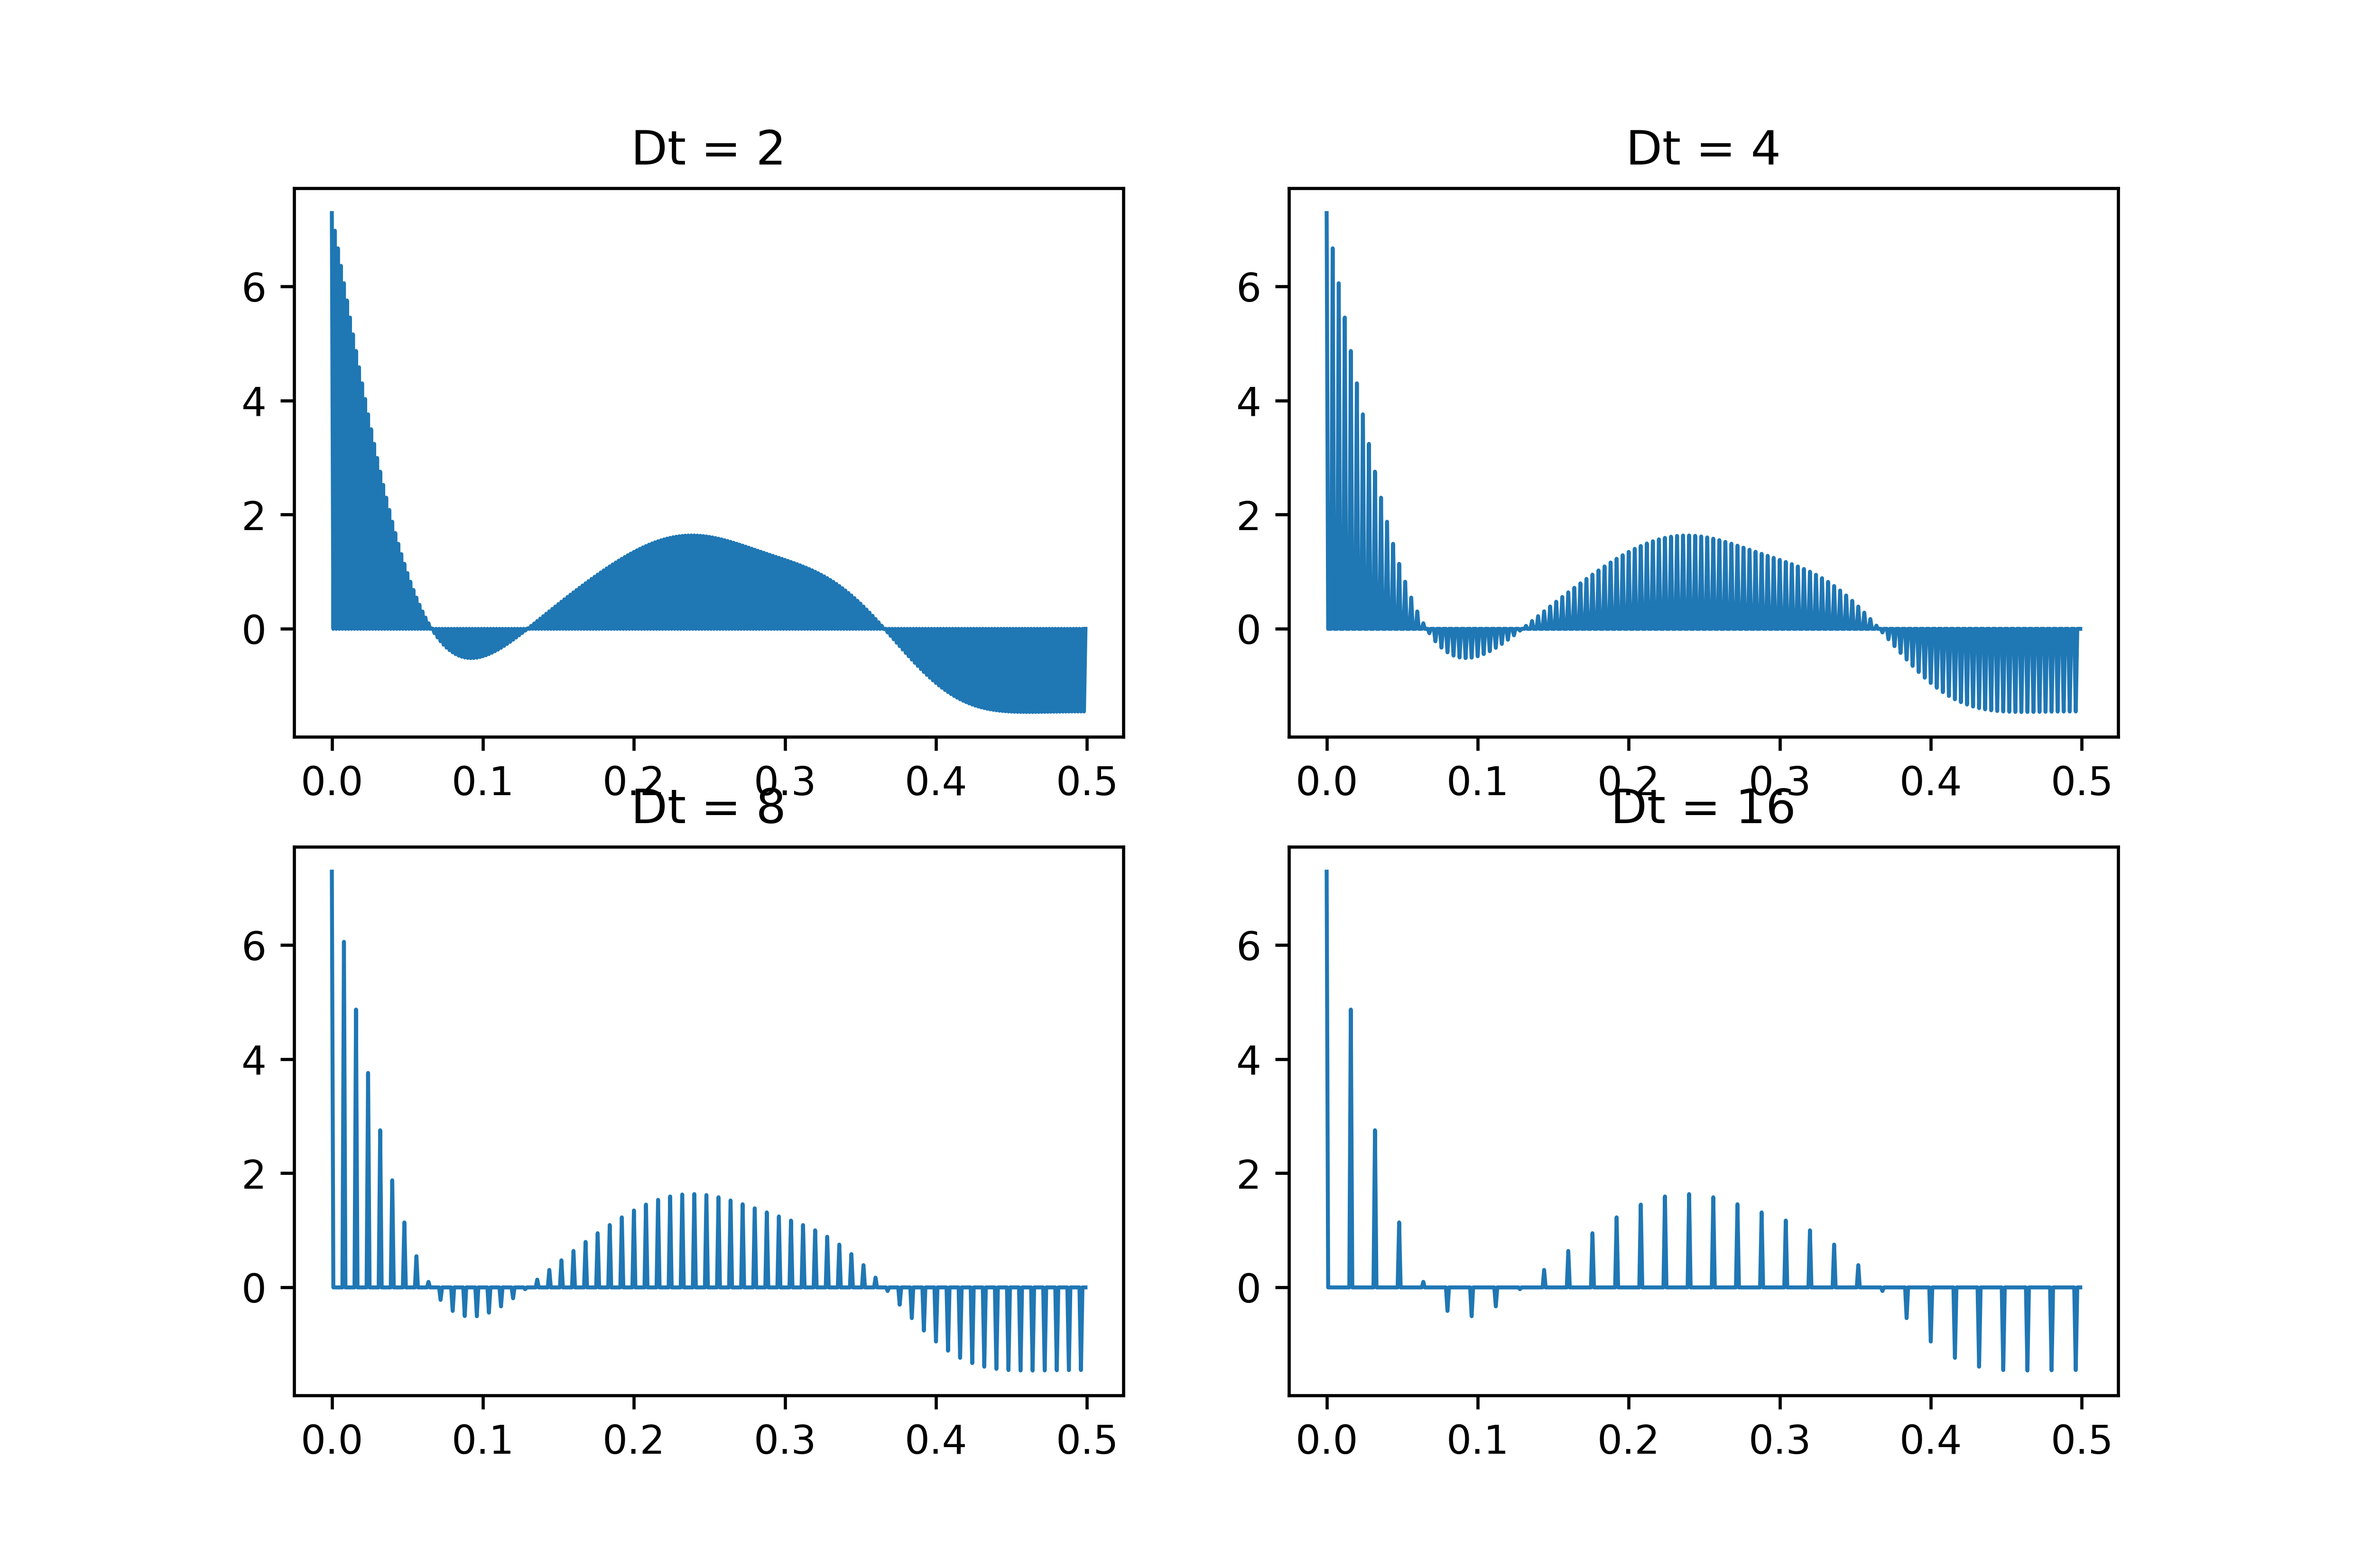
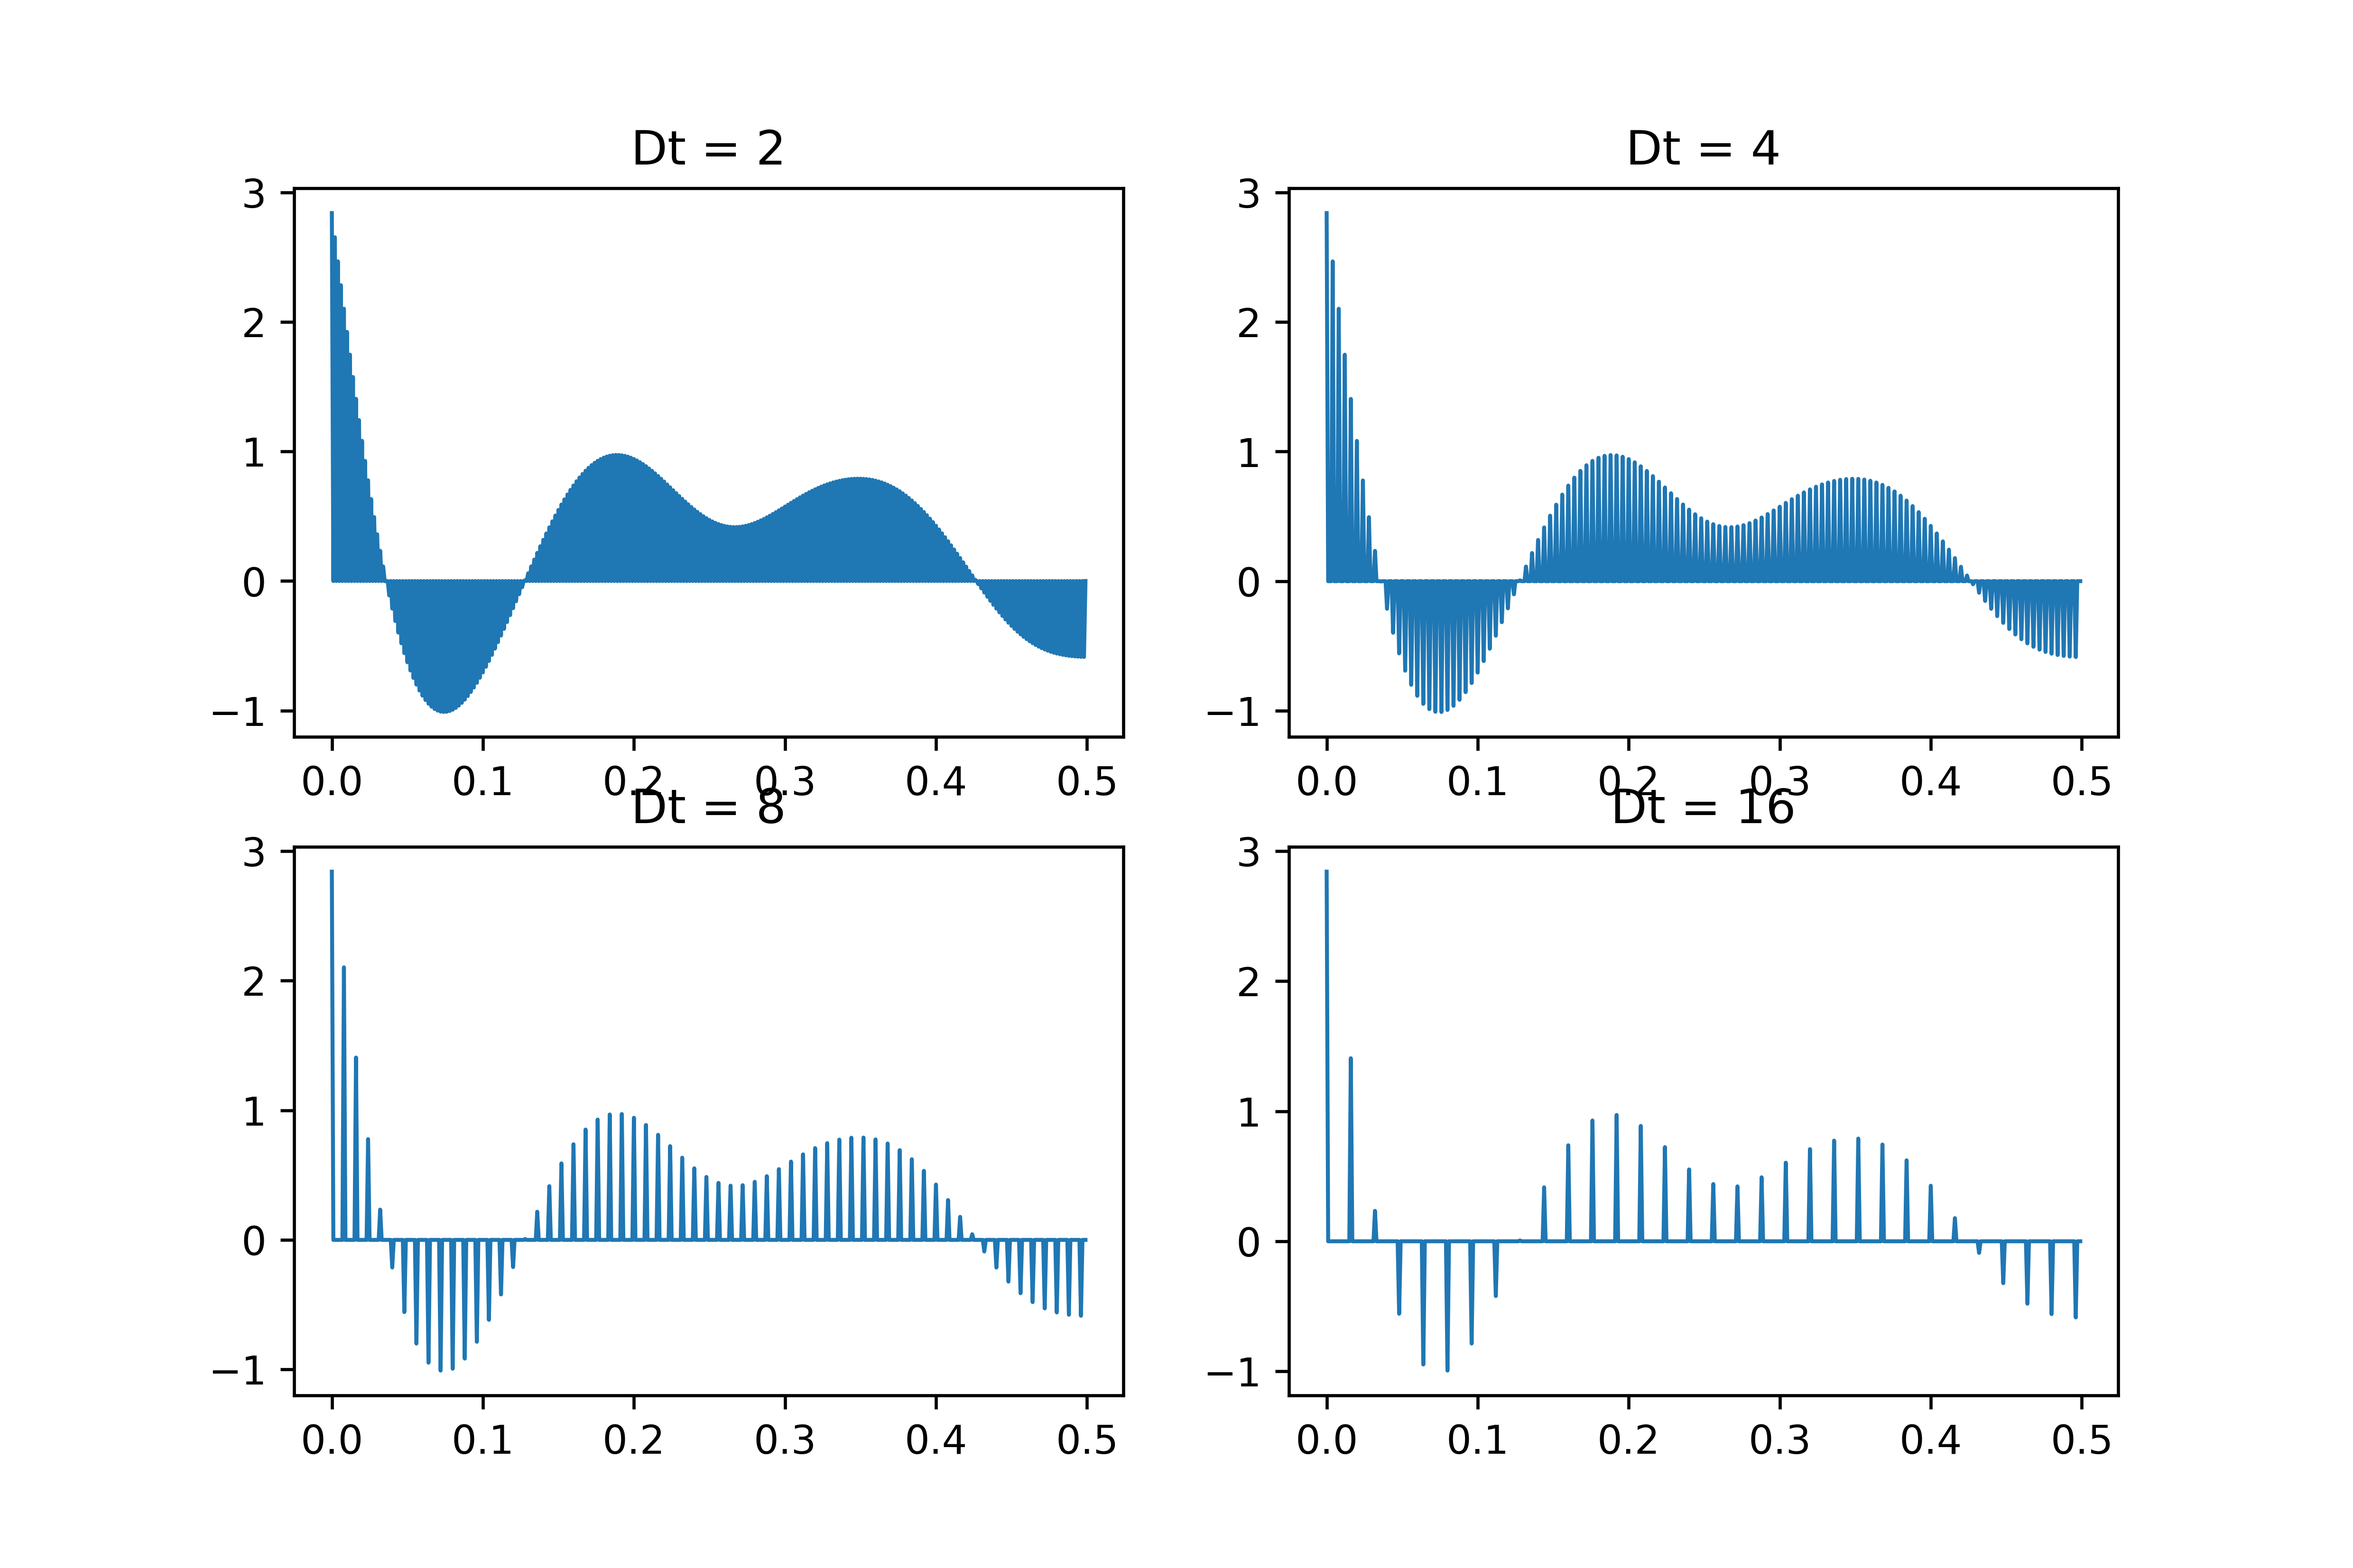
LosslessСompression 1

diff --git a/LosslessСompression/sequence.py b/LosslessСompression/sequence.py
@@ -1,0 +1,196 @@
+import random
+import collections
+import math
+import string
+import matplotlib.pyplot as plt
+
+# Константи
+N_SEQUENCE = 100
+STUDENT_NUMBER = 2  # Порядковий номер
+LAST_NAME = "Вансовіч"
+GROUP_NUMBER = "529"
+
+def generate_sequence_1():
+    """Генерація послідовності 1"""
+    list1 = ['1'] * STUDENT_NUMBER
+    list0 = ['0'] * (N_SEQUENCE - STUDENT_NUMBER)
+    combined = list1 + list0
+    random.shuffle(combined)
+    return ''.join(combined)
+
+def generate_sequence_2():
+    """Генерація послідовності 2"""
+    letters = list(LAST_NAME)
+    zeros = ['0'] * (N_SEQUENCE - len(letters))
+    return ''.join(letters + zeros)
+
+def generate_sequence_3():
+    """Генерація послідовності 3"""
+    letters = list(LAST_NAME)
+    zeros = ['0'] * (N_SEQUENCE - len(letters))
+    combined = letters + zeros
+    random.shuffle(combined)
+    return ''.join(combined)
+
+def generate_sequence_4():
+    """Генерація послідовності 4"""
+    letters = list(LAST_NAME) + list(GROUP_NUMBER)
+    n_letters = len(letters)
+    n_repeats = N_SEQUENCE // n_letters
+    remainder = N_SEQUENCE % n_letters
+
+    sequence = letters * n_repeats + letters[:remainder]
+    return ''.join(sequence)
+
+def generate_sequence_5():
+    """Генерація послідовності 5"""
+    elements = list(LAST_NAME[:2]) + list(GROUP_NUMBER)
+    sequence = random.choices(elements, k=N_SEQUENCE)
+    return ''.join(sequence)
+
+def generate_sequence_6():
+    """Генерація послідовності 6"""
+    letters = list(LAST_NAME[:2])
+    digits = list(GROUP_NUMBER)
+
+    n_letters = int(0.7 * N_SEQUENCE)
+    n_digits = N_SEQUENCE - n_letters
+
+    sequence = random.choices(letters, k=n_letters) + random.choices(digits, k=n_digits)
+    random.shuffle(sequence)
+    return ''.join(sequence)
+
+def generate_sequence_7():
+    """Генерація послідовності 7"""
+    elements = string.ascii_lowercase + string.digits
+    sequence = random.choices(elements, k=N_SEQUENCE)
+    return ''.join(sequence)
+
+def generate_sequence_8():
+    """Генерація послідовності 8"""
+    return '1' * N_SEQUENCE
+
+def calculate_sequence_stats(sequence):
+    """Розрахунок статистики для послідовності"""
+    # Розмір алфавіту
+    unique_chars = set(sequence)
+    alphabet_size = len(unique_chars)
+
+    # Розмір послідовності в байтах
+    sequence_size_bytes = len(sequence)
+
+    # Ймовірності символів
+    counts = collections.Counter(sequence)
+    probability = {symbol: count / N_SEQUENCE for symbol, count in counts.items()}
+
+    # Середня ймовірність
+    mean_probability = sum(probability.values()) / len(probability)
+
+    # Тип розподілу ймовірностей
+    equal = all(abs(prob - mean_probability) < 0.05 * mean_probability for prob in probability.values())
+    uniformity = "рівна" if equal else "нерівна"
+
+    # Ентропія
+    entropy = -sum(p * math.log2(p) for p in probability.values() if p > 0)
+
+    # Надмірність
+    if alphabet_size > 1:
+        source_excess = 1 - entropy / math.log2(alphabet_size)
+    else:
+        source_excess = 1
+
+    return {
+        'sequence': sequence,
+        'alphabet_size': alphabet_size,
+        'size_bytes': sequence_size_bytes,
+        'probability': probability,
+        'mean_probability': mean_probability,
+        'uniformity': uniformity,
+        'entropy': entropy,
+        'source_excess': source_excess
+    }
+
+def save_results_to_file(stats, filename="results_sequence.txt"):
+    """Збереження результатів у файл"""
+    with open(filename, "w", encoding="utf-8") as file:
+        for i, stat in enumerate(stats, 1):
+            file.write(f"Послідовність {i}: {stat['sequence']}\n")
+            file.write(f"Розмір послідовності: {stat['size_bytes']} byte\n")
+            file.write(f"Розмір алфавіту: {stat['alphabet_size']}\n")
+
+            prob_str = ', '.join([f"{symbol}={prob:.4f}" for symbol, prob in stat['probability'].items()])
+            file.write(f"Ймовірності появи символів: {prob_str}\n")
+            file.write(f"Середнє арифметичне ймовірностей: {stat['mean_probability']:.2f}\n")
+            file.write(f"Ймовірність розподілу символів: {stat['uniformity']}\n")
+            file.write(f"Ентропія: {stat['entropy']:.4f}\n")
+            file.write(f"Надмірність джерела: {stat['source_excess']:.2f}\n\n")
+
+def save_sequences_to_file(sequences, filename="sequence.txt"):
+    """Збереження послідовностей у файл"""
+    with open(filename, "w", encoding="utf-8") as file:
+        for i, seq in enumerate(sequences, 1):
+            file.write(f"original_sequence_{i}={seq}\n")
+
+def create_results_table(stats):
+    """Створення таблиці з результатами"""
+    results = []
+    for stat in stats:
+        results.append([
+            stat['alphabet_size'],
+            round(stat['entropy'], 2),
+            round(stat['source_excess'], 2),
+            stat['uniformity']
+        ])
+
+    return results
+
+def plot_table(results):
+    """Візуалізація результатів у вигляді таблиці"""
+    N = len(results)
+    fig, ax = plt.subplots(figsize=(14/1.54, N/1.54))
+    ax.axis('off')
+
+    headers = ['Розмір алфавіту', 'Ентропія', 'Надмірність', 'Ймовірність']
+    rows = [f'Послідовність {i+1}' for i in range(N)]
+
+    table = ax.table(
+        cellText=results,
+        colLabels=headers,
+        rowLabels=rows,
+        loc='center',
+        cellLoc='center'
+    )
+
+    table.set_fontsize(14)
+    table.scale(0.8, 2)
+    plt.savefig('Характеристики сформованих послідовностей.png', bbox_inches='tight')
+    plt.close()
+
+def main():
+    # Генерація послідовностей
+    sequences = [
+        generate_sequence_1(),
+        generate_sequence_2(),
+        generate_sequence_3(),
+        generate_sequence_4(),
+        generate_sequence_5(),
+        generate_sequence_6(),
+        generate_sequence_7(),
+        generate_sequence_8()
+    ]
+
+    # Розрахунок статистики для кожної послідовності
+    stats = [calculate_sequence_stats(seq) for seq in sequences]
+
+    # Збереження результатів
+    save_results_to_file(stats)
+    save_sequences_to_file(sequences)
+
+    # Створення таблиці результатів
+    results_table = create_results_table(stats)
+    plot_table(results_table)
+
+    print("Роботу завершено успішно. Результати збережено у файлах.")
+
+if __name__ == "__main__":
+    main()
